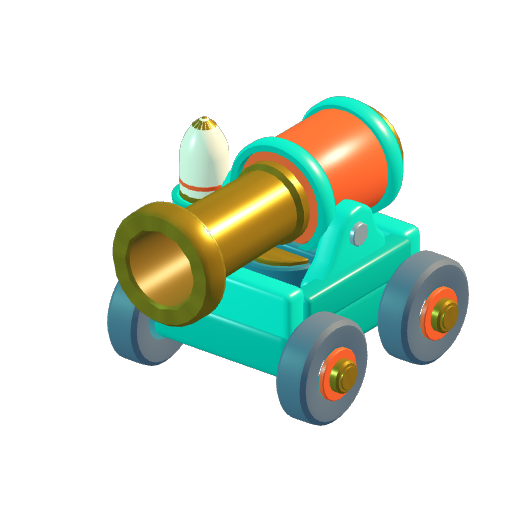
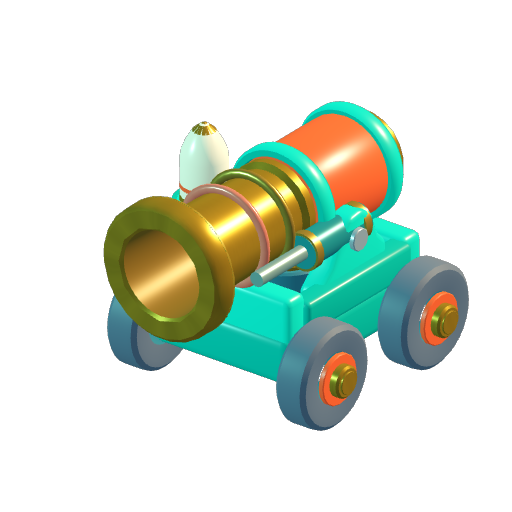
✨ Add reinforced Siege evolution barrels and hydraulic recoil

diff --git a/doc/plans/turret-expansion-progress.md b/doc/plans/turret-expansion-progress.md
@@ -95,3 +95,7 @@ All six portraits regenerated; dark-background comparison reviewed. Regression c
 ### Gunblade visual evolution
 
 Repeater Blade adds a second open brass barrel above the authored gun; Stormblade adds two upper barrels for a triangular three-barrel assembly. Teal receivers connect the new hardware while leaving the curved ivory blade exposed. Every burst round launches from its corresponding visible muzzle and follows the rotating assembly. The authored base, arm, grip and blade remain intact. Updated both later-form shop portraits and reviewed their silhouettes. Regression assertions cover barrel counts at each stage, distinct shot origins, rotating headings and original source attribution.
+
+### Siege visual evolution
+
+Moonshot widens the authored open barrel and adds paired hydraulic recoil housings, sliding rods and reinforcement bands. Worldbreaker adds a second hydraulic pair and a larger bore. The launch point is now a child of the recoiling barrel, including the base Siege form, so shot origins follow the visible opening. Barrel length stays unchanged to preserve close-target behavior. Both later-form portraits rebuilt and reviewed. Regression checks cover the per-stage cylinder pairs and muzzle movement/settling during recoil.
